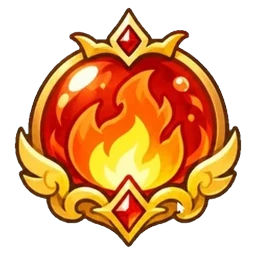
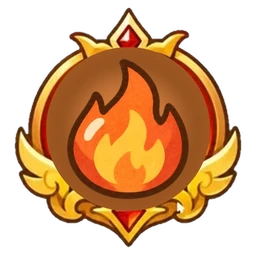
v0.59.1: ngọc nâng cấp đồng bộ phong cách ngọc thường
Claude-Session: https://claude.ai/code/session_01Q71dSV1Aw33VZ7jDMhTJpy

diff --git a/www/js/version.js b/www/js/version.js
@@ -1,4 +1,4 @@
 // Tự sinh bởi tools/stamp-version.js, đừng sửa tay.
-export const VERSION = '0.59.0';
-export const BUILD = 122;
+export const VERSION = '0.59.1';
+export const BUILD = 123;
 export const BUILD_DATE = '2026-11-13';

diff --git a/tools/orb-unify.py b/tools/orb-unify.py
@@ -1,0 +1,43 @@
+#!/usr/bin/env python3
+"""Làm ngọc nâng cấp cùng phong cách ngọc thường: giữ khung vàng có cánh của orbNe, thay phần ruột bóng loáng bằng
+ngọc thường (viền nâu đậm, tô phẳng) đặt trên nền tròn tối cùng tông hệ. Chạy lại được từ bản gốc trong --src.
+  python3 tools/orb-unify.py <thư mục chứa bản orbNe gốc>   (mặc định /tmp/orbs_bak)"""
+import sys
+from pathlib import Path
+from PIL import Image, ImageDraw, ImageFilter, ImageStat
+import numpy as np
+ROOT = Path(__file__).resolve().parent.parent / 'www/assets/orbs'
+SRC = Path(sys.argv[1]) if len(sys.argv) > 1 else Path('/tmp/orbs_bak')
+S = 4  # siêu lấy mẫu cho mép mượt
+CX, CY, R_IN = 128, 129, 82
+for i in range(6):
+    e = Image.open(SRC / f'orb{i}e.webp').convert('RGBA')
+    n = Image.open(ROOT / f'orb{i}.webp').convert('RGBA')
+    big = e.resize((256 * S, 256 * S), Image.LANCZOS)
+    # khung = mọi điểm ngoài đĩa trong; trong đĩa bỏ trống
+    arr = np.array(big)
+    yy, xx = np.ogrid[:256 * S, :256 * S]
+    inside = (xx - CX * S) ** 2 + (yy - CY * S) ** 2 < (R_IN * S) ** 2
+    arr[inside, 3] = 0
+    frame = Image.fromarray(arr)
+    # nền tròn tối tông hệ: lấy màu chủ đạo của ngọc thường, tối đi
+    na = np.array(n); m = na[..., 3] > 200
+    col = na[m][:, :3].mean(0) if m.any() else np.array([120, 120, 120])
+    base = tuple(int(c * 0.78 + 8) for c in col)
+    disc = Image.new('RGBA', (256 * S, 256 * S), (0, 0, 0, 0))
+    d = ImageDraw.Draw(disc)
+    r = (R_IN + 3) * S  # lấn dưới khung một chút để không hở
+    d.ellipse([CX * S - r, CY * S - r, CX * S + r, CY * S + r], fill=base + (255,))
+    # vòng sáng nhẹ ở đáy đĩa cho có chiều sâu, vẫn phẳng
+    glow = Image.new('RGBA', disc.size, (0, 0, 0, 0)); g = ImageDraw.Draw(glow)
+    rr = int(r * 0.78); g.ellipse([CX * S - rr, CY * S - rr, CX * S + rr, CY * S + rr], fill=tuple(int(c * 0.9 + 40) for c in col) + (150,))
+    glow = glow.filter(ImageFilter.GaussianBlur(14 * S))
+    disc = Image.alpha_composite(disc, glow)
+    # ngọc thường ở giữa, cắt theo bbox rồi co vừa đĩa
+    bb = n.getbbox(); icon = n.crop(bb)
+    k = (R_IN * 2 * 0.86 * S) / max(icon.size)
+    icon = icon.resize((int(icon.width * k), int(icon.height * k)), Image.LANCZOS)
+    disc.alpha_composite(icon, (CX * S - icon.width // 2, CY * S - icon.height // 2))
+    out = Image.alpha_composite(disc, frame).resize((256, 256), Image.LANCZOS)
+    out.save(ROOT / f'orb{i}e.webp', quality=92, method=6)
+    print(i, 'ok', base)

diff --git a/README.md b/README.md
@@ -435,3 +435,6 @@ Bảng màu mực/xương/đỏ con dấu: đỏ chỉ cho hành động chính 
 - **Nhạc theo màn:** thêm 8 bài: `title` (tạo nhân vật), `summon` (triệu hồi/lịch sử/đổi mảnh), `wish` (ước), `shop`, `camp` (đội hình, tướng, bộ sưu tập, nhiệm vụ), `mystery` (sự kiện), `victory`, `defeat` (màn kết trận). Tổng 30 bài, sinh bởi `tools/gen-music.py`. Đặt bài bằng `music('tên')` NGAY TRƯỚC `screen(...)` nên dựng lại cùng màn không làm nhạc khởi động lại.
 - **SFX mới (`tools/build-sfx2.py`, tổng hợp bằng numpy):** kỹ năng riêng cho 6 hệ (`skill_water/fire/wood/light/dark/heart`, Duo vẫn `skill2`), lên cấp (`levelup`), ngọc nâng cấp (`enhance`, thay bản synth), boss xuất hiện (`bossIn`), bị hiệu ứng xấu (`debuff`), phản đòn (`reflect`), hồi sinh (`revive`, bỏ fanfare chồng).
 - Test `tests/audio.test.js`: mọi bài đủ trường, nốt trong thang, mọi tên bài gọi trong code tồn tại, mọi mẫu có file.
+
+### v0.59.1
+- Ngọc nâng cấp đồng bộ phong cách với ngọc thường: giữ khung vàng có cánh, thay ruột bóng loáng (AI khác) bằng chính ngọc thường (viền nâu đậm, tô phẳng) trên nền tròn cùng tông hệ. Script `tools/orb-unify.py` (đọc bản orbNe gốc từ thư mục chỉ định, mặc định `/tmp/orbs_bak`).
